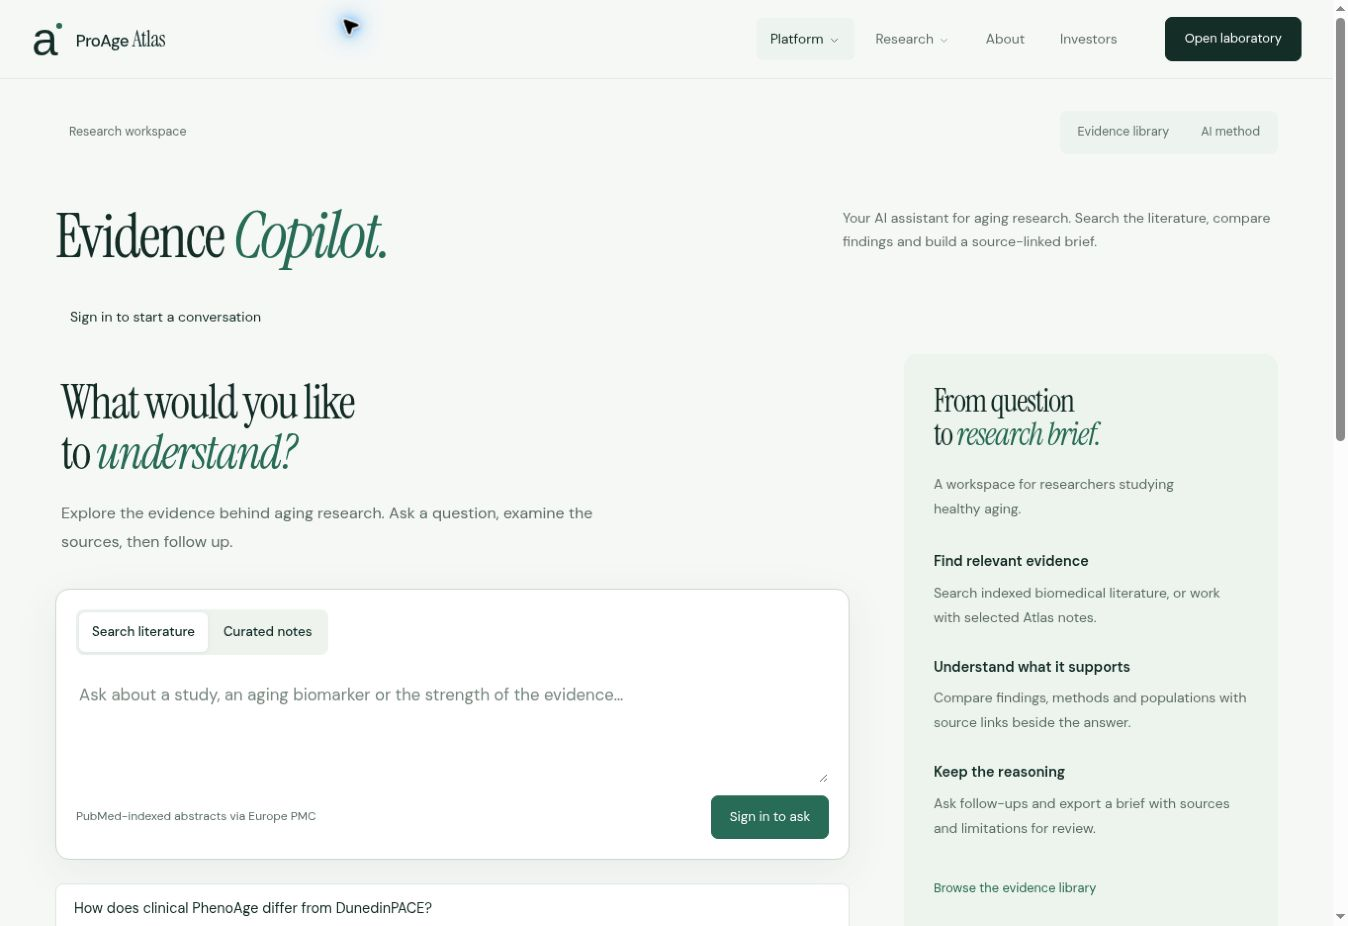
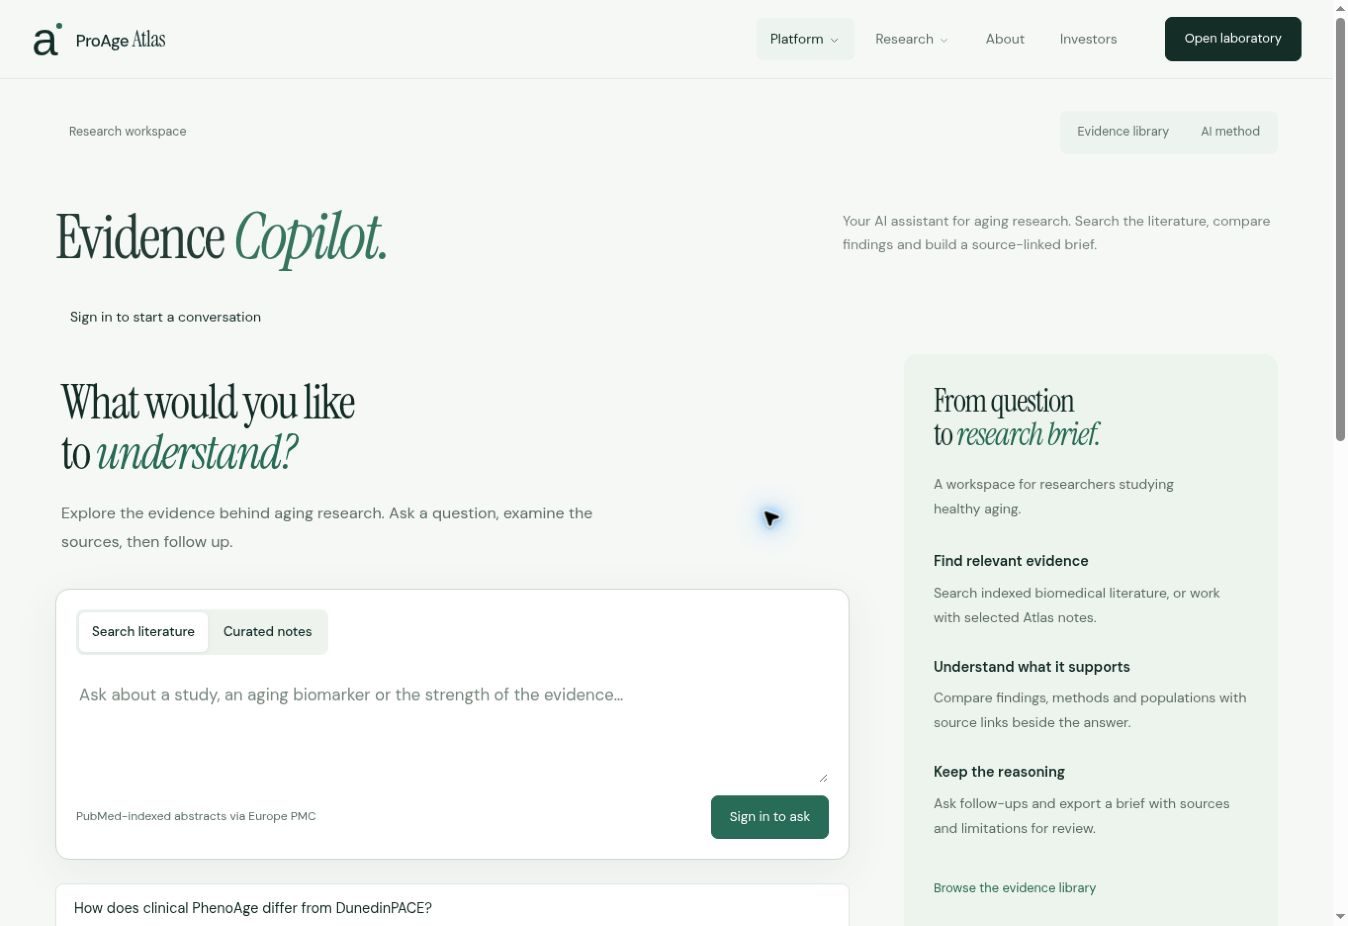
Record deployed live AI verification and production screenshot

diff --git a/docs/qa/ai-product-20261025.md b/docs/qa/ai-product-20261025.md
@@ -1,8 +1,8 @@
 # AI evidence product — release verification, 25 October 2026
 
-Initial product deployment source: `5531b0652fe523d3ec0dc9056de88e049f159b74` (tree `8dd3a3119907d37a246a10891dc8566a86f2a24e`). The follow-up in this revision corrects retrieval and citation display after live Azure verification.
+Production source: `9ef74c61b8959d480fce391216e3442bb9e9db5e` (tree `1f1c647fd506d0c9d2774309cd7f07c26afc8ce1`). This includes the product release and the live-verified retrieval/citation correction.
 
-Cloudflare build `8fa4c17a-2da1-4426-9e8a-58793da69962` completed successfully. Deployment `db37497d-9e28-4f5e-bcec-3078fcbe795d` serves Worker version `f790aa22-a2b1-42a7-a1c8-feeae0f67cf4` at 100% traffic. Rollback reference: `backup/before-ai-evidence-product-20261025` → `5393a879718a5440d17197ce0c47fa6a70a0db0e`.
+Cloudflare build `4f6c7b97-6676-4699-90e4-80c5c4e1b64b` completed successfully at 09:34:08 UTC. Deployment `045eb8d4-8f54-4158-8373-b033fed318ea` serves Worker version `69c522e2-508c-490e-94ef-4b151ef4f523` at 100% traffic. The production browser was reloaded after deployment and reached the configured signed-out state. Rollback reference: `backup/before-ai-evidence-product-20261025` → `5393a879718a5440d17197ce0c47fa6a70a0db0e`.
 
 ## Completed checks
 
